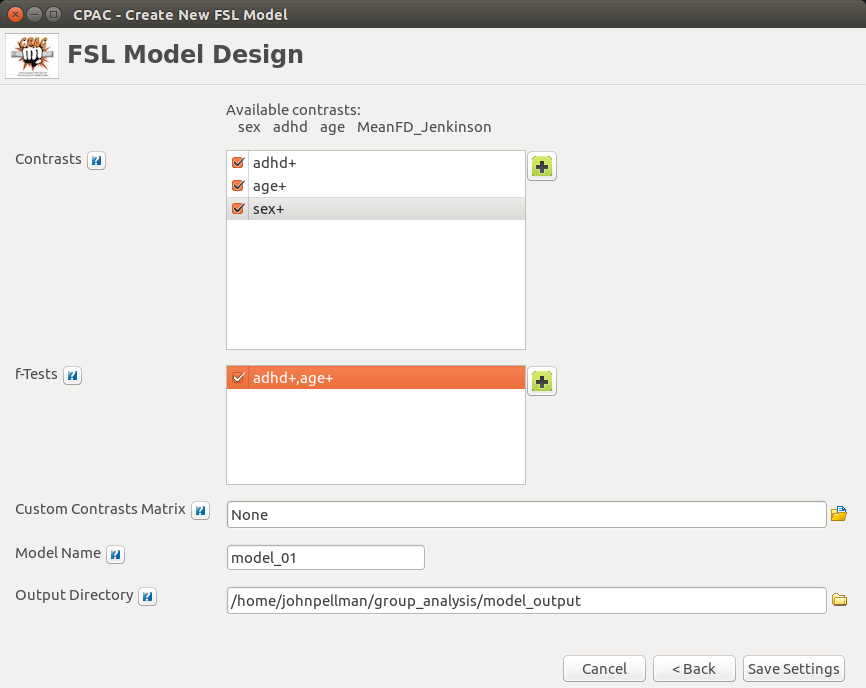
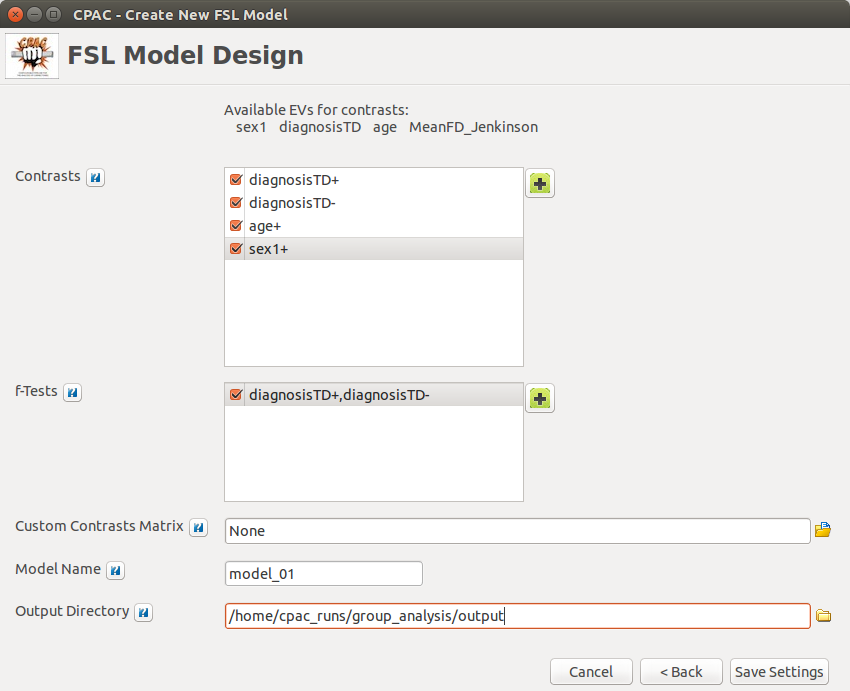
Updated group analysis documentation.  Added example files and clarified that categorical variable levels can be strings.

diff --git a/docs/user/fsl_ga.html b/docs/user/fsl_ga.html
@@ -56,6 +56,11 @@
 <ul class="simple">
 <li><a class="reference external" href="https://docs.google.com/presentation/d/1cJVNeNSK8Uy8UTzN6mMG4YR5YLqnpV4HopqsKZbma5k/pub?start=false&amp;loop=false&amp;delayms=10000#slide=id.p">https://docs.google.com/presentation/d/1cJVNeNSK8Uy8UTzN6mMG4YR5YLqnpV4HopqsKZbma5k/pub?start=false&amp;loop=false&amp;delayms=10000#slide=id.p</a></li>
 </ul>
+<p>The example files used in the presentation above are also available below for your perusal:</p>
+<ul class="simple">
+<li><a class="reference external" href="_static/subject_list_group_analysis.txt">A Subject List</a></li>
+<li><a class="reference external" href="_static/example_phenotypic_file.csv">A Phenotype File</a></li>
+</ul>
 </div>
 <div class="section" id="configuring-cpac-to-run-fsl-group-analysis">
 <h2>Configuring CPAC to Run FSL Group Analysis<a class="headerlink" href="#configuring-cpac-to-run-fsl-group-analysis" title="Permalink to this headline">¶</a></h2>
@@ -72,8 +77,8 @@
 <img alt="_images/ga_model_setup.png" src="_images/ga_model_setup.png" />
 </div>
 <ol class="arabic simple">
-<li><strong>Subject List - [path]:</strong> Full path to a list of subjects to be included in the model. This should be a text file with one subject per line.  A list in this format containing all subjects run through CPAC was generated along with the main CPAC subject list (see subject_list_group_analysis.txt). Another easy way to manually create this file is to copy the subjects column from your Regressor/EV spreadsheet.</li>
-<li><strong>Phenotype/EV File -[path]:</strong> Full path to a .csv file containing EV information for each subject. Tip: A file in this format (containing a single column listing all subjects run through CPAC) was generated along with the main CPAC subject list (see template_phenotypic.csv).</li>
+<li><strong>Subject List - [path]:</strong> Full path to a list of subjects to be included in the model. This should be a text file with one subject per line.  A list in this format containing all subjects run through CPAC was generated along with the main CPAC subject list (see the subject list in <cite>Overview</cite>). Another easy way to manually create this file is to copy the subjects column from your Regressor/EV spreadsheet.</li>
+<li><strong>Phenotype/EV File -[path]:</strong> Full path to a .csv file containing EV information for each subject. A file in this format (containing a single column listing all subjects run through CPAC) was generated along with the main CPAC subject list (see the phenotype file in <cite>Overview</cite>).  Levels for categorical variables in this file can be expressed as words (&#8216;ADHD&#8217;/&#8217;TD&#8217;) or numerical values (0/1) depending on your preferences.</li>
 <li><strong>Subjects Column Name [text]:</strong> Name of the subjects column in your EV file.</li>
 <li><strong>Model Setup - [checkboxes]:</strong> A list of EVs from your phenotype file will populate in this window. From here, you can select whether the EVs should be treated as categorical or if they should be demeaned (continuous/non-categorical EVs only). &#8216;MeanFD&#8217; and &#8216;Measure Mean&#8217; will also appear in this window automatically as options to be used as regressors that can be included in your model design. Note that the MeanFD and mean of measure values are automatically calculated and supplied by C-PAC via individual-level analysis.  Also, MeanFD and mean of measure values are automatically demeaned prior to being inserted into the group analysis model.</li>
 <li><strong>Design Matrix Formula - [Patsy formula]:</strong> Specify the formula to describe your model design. Essentially, including EVs in this formula inserts them into the model. The most basic format to include each EV you select would be &#8216;EV + EV + EV + ..&#8217;, etc. You can also select to include MeanFD and Measure_Mean here. Note that this design formula is pre-generated for the user depending on the EVs in the phenotype file, but can be edited at any time. C-PAC uses the Python library Patsy to generate the design matrices, so more information on how to format your design formula for specific designs can be found here- <a class="reference external" href="https://patsy.readthedocs.org/en/latest/formulas.html">Patsy formula documentation</a>.  If you have used R in the past, Patsy&#8217;s formula syntax should be familiar.</li>
@@ -107,7 +112,7 @@
 <li><strong>+</strong> Positive</li>
 <li><strong>-</strong> Negative</li>
 </ul>
-<p class="last">For categorical contrasts, use the + and - operators.  Using a phenotype file with two groups coded as 1 or 2 will produce an EV for &#8216;group2&#8217;.  &#8216;group2+&#8217; will perform the contrast &#8216;group 2 &gt; group 1&#8217; and &#8216;group2-&#8216; will perform the contrast &#8216;group 1 &gt; group 2&#8217;.  Using these two operators avoids issues of multicollinearity introduced by dummy coding.</p>
+<p class="last">For categorical contrasts, use the + and - operators.  Using a phenotype file with two groups coded as &#8216;ADHD&#8217; or &#8216;TD&#8217; will produce an EV for &#8216;TD&#8217;.  &#8216;diagnosisTD+&#8217; will perform the contrast &#8216;TD &gt; ADHD&#8217; and &#8216;diagnosisTD-&#8216; will perform the contrast &#8216;ADHD &gt; TD&#8217;.  Using these two operators avoids issues of multicollinearity introduced by dummy coding.</p>
 </dd>
 </dl>
 </li>
